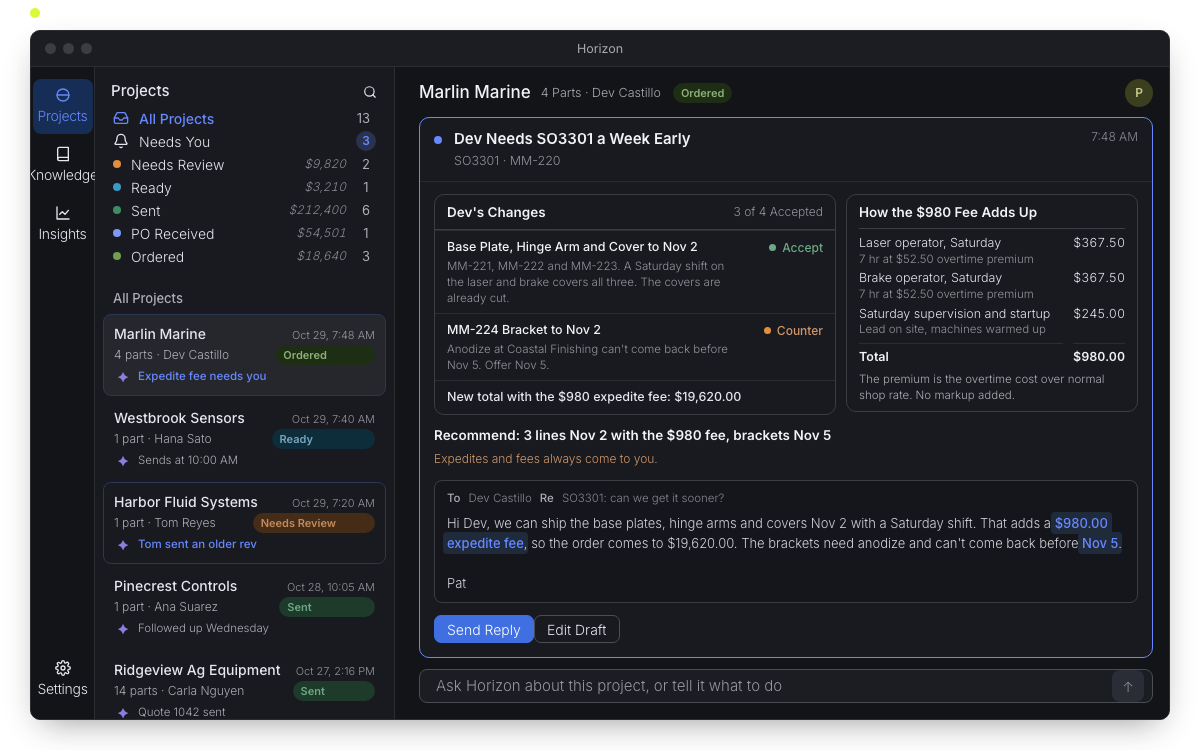
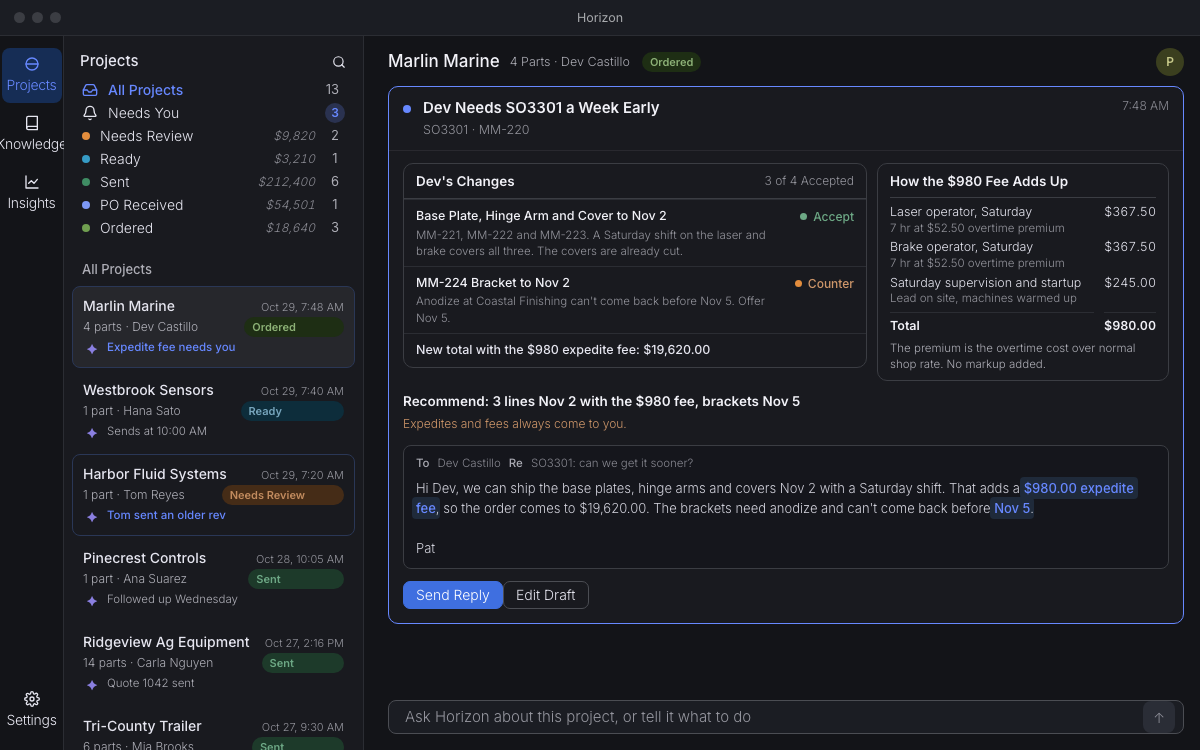
horizon: loops fill the frame edge to edge, neon dot removed, posters re-rendered
Brand pass against the approved Builder page: product frames are the
window itself (12px radius + float shadow on the embed), no inset canvas,
no marketing accent inside the frame.

Changed region(s): [[0.0, 0.0, 1.0, 1.0], [0.2158, 0.1227, 0.3083, 0.368], [0.6475, 0.4293, 0.6783, 0.46]]

diff --git a/horizon/hero-email-lands/index.html b/horizon/hero-email-lands/index.html
@@ -60,11 +60,10 @@
   transform: scale(var(--s)); transform-origin: 0 0; background: #fff; overflow: hidden; }
 
 /* the one marketing accent on the canvas */
-.hz-hero-email-lands .h-neon { position: absolute; left: 12px; top: 10px; width: 10px; height: 10px; border-radius: 50%; background: #DDF83B; }
 
 /* ---------- the Horizon window (OS title bar + the app) ---------- */
-.hz-hero-email-lands .h-win { position: absolute; left: 30px; top: 30px; width: 1140px; height: 690px; background: #131418;
-  border: 1px solid #2b2d33; border-radius: 10px; box-shadow: 0 12px 32px -12px rgba(15,17,21,.45); overflow: hidden;
+.hz-hero-email-lands .h-win { position: absolute; left: 0; top: 0; width: 1200px; height: 750px; background: #131418;
+     overflow: hidden;
   display: flex; flex-direction: column; z-index: 2; transform-origin: 50% 60%;
   transition: opacity .6s cubic-bezier(.2,.7,.2,1), transform .7s cubic-bezier(.2,.7,.2,1); }
 .hz-hero-email-lands .h-win.is-back { opacity: 0; transform: translateY(22px) scale(.965); z-index: 1; }
@@ -75,8 +74,8 @@
 .hz-hero-email-lands .h-appwrap { flex: 1 1 auto; min-height: 0; }
 
 /* ---------- the other client: Outlook, where the RFQ lands first (light Microsoft look, intentional) ---------- */
-.hz-hero-email-lands .o-win { position: absolute; left: 30px; top: 30px; width: 1140px; height: 690px; background: #fff;
-  border: 1px solid #d6d6d6; border-radius: 10px; box-shadow: 0 12px 32px -12px rgba(15,17,21,.45); overflow: hidden;
+.hz-hero-email-lands .o-win { position: absolute; left: 0; top: 0; width: 1200px; height: 750px; background: #fff;
+  border: 1px solid #d6d6d6;   overflow: hidden;
   display: flex; flex-direction: column; z-index: 3; opacity: 0; transform: translateY(16px) scale(.97); transform-origin: 50% 50%;
   font-family: 'Segoe UI', 'Inter', -apple-system, BlinkMacSystemFont, sans-serif; color: #242424;
   transition: opacity .6s cubic-bezier(.2,.7,.2,1), transform .75s cubic-bezier(.2,.7,.2,1); }
@@ -365,7 +364,6 @@
 
 <div class="hz-hero-email-lands">
   <div class="hz-hero-email-lands-stage">
-    <div class="h-neon"></div>
 
     <!-- ===== Outlook (the email arrives here first) ===== -->
     <div class="o-win" data-owin>

diff --git a/horizon/hero-email-lands/fragment.html b/horizon/hero-email-lands/fragment.html
@@ -9,11 +9,10 @@
   transform: scale(var(--s)); transform-origin: 0 0; background: #fff; overflow: hidden; }
 
 /* the one marketing accent on the canvas */
-.hz-hero-email-lands .h-neon { position: absolute; left: 12px; top: 10px; width: 10px; height: 10px; border-radius: 50%; background: #DDF83B; }
 
 /* ---------- the Horizon window (OS title bar + the app) ---------- */
-.hz-hero-email-lands .h-win { position: absolute; left: 30px; top: 30px; width: 1140px; height: 690px; background: #131418;
-  border: 1px solid #2b2d33; border-radius: 10px; box-shadow: 0 12px 32px -12px rgba(15,17,21,.45); overflow: hidden;
+.hz-hero-email-lands .h-win { position: absolute; left: 0; top: 0; width: 1200px; height: 750px; background: #131418;
+     overflow: hidden;
   display: flex; flex-direction: column; z-index: 2; transform-origin: 50% 60%;
   transition: opacity .6s cubic-bezier(.2,.7,.2,1), transform .7s cubic-bezier(.2,.7,.2,1); }
 .hz-hero-email-lands .h-win.is-back { opacity: 0; transform: translateY(22px) scale(.965); z-index: 1; }
@@ -24,8 +23,8 @@
 .hz-hero-email-lands .h-appwrap { flex: 1 1 auto; min-height: 0; }
 
 /* ---------- the other client: Outlook, where the RFQ lands first (light Microsoft look, intentional) ---------- */
-.hz-hero-email-lands .o-win { position: absolute; left: 30px; top: 30px; width: 1140px; height: 690px; background: #fff;
-  border: 1px solid #d6d6d6; border-radius: 10px; box-shadow: 0 12px 32px -12px rgba(15,17,21,.45); overflow: hidden;
+.hz-hero-email-lands .o-win { position: absolute; left: 0; top: 0; width: 1200px; height: 750px; background: #fff;
+  border: 1px solid #d6d6d6;   overflow: hidden;
   display: flex; flex-direction: column; z-index: 3; opacity: 0; transform: translateY(16px) scale(.97); transform-origin: 50% 50%;
   font-family: 'Segoe UI', 'Inter', -apple-system, BlinkMacSystemFont, sans-serif; color: #242424;
   transition: opacity .6s cubic-bezier(.2,.7,.2,1), transform .75s cubic-bezier(.2,.7,.2,1); }
@@ -314,7 +313,6 @@
 
 <div class="hz-hero-email-lands">
   <div class="hz-hero-email-lands-stage">
-    <div class="h-neon"></div>
 
     <!-- ===== Outlook (the email arrives here first) ===== -->
     <div class="o-win" data-owin>

diff --git a/horizon/expedite-math/index.html b/horizon/expedite-math/index.html
@@ -50,11 +50,10 @@
 @import url('https://fonts.googleapis.com/css2?family=Inter:wght@300;400;500;600;700&display=swap');
 .hz-expedite-math{position:relative;width:100%;max-width:1200px;margin:0 auto;overflow:hidden;aspect-ratio:1200/750;font-family:Inter,-apple-system,BlinkMacSystemFont,'Segoe UI',sans-serif;color:#292932;line-height:1.4;-webkit-font-smoothing:antialiased;-moz-osx-font-smoothing:grayscale;background:#fff}
 .hz-expedite-math *,.hz-expedite-math *::before,.hz-expedite-math *::after{box-sizing:border-box}
-.hz-expedite-math-stage{position:absolute;top:0;left:0;width:1200px;height:750px;transform-origin:0 0;transform:scale(var(--s,1));background:#fff;overflow:hidden}
+.hz-expedite-math-stage{position:absolute;top:0;left:0;width:1200px;height:750px;transform-origin:0 0;transform:scale(var(--s,1));background: #131418;overflow:hidden}
 /* canvas: the one marketing accent */
-.hz-expedite-math .em-neon{position:absolute;left:30px;top:8px;width:10px;height:10px;border-radius:50%;background:#DDF83B}
 /* the Horizon window: OS title bar + the kit's app shell */
-.hz-expedite-math .em-win{position:absolute;left:30px;top:30px;width:1140px;height:690px;border:1px solid #2b2d33;border-radius:10px;box-shadow:0 12px 32px -12px rgba(15,17,21,.45);overflow:hidden;display:flex;flex-direction:column;background:#131418}
+.hz-expedite-math .em-win{position:absolute;left: 0;top: 0;width: 1200px;height: 750px;overflow:hidden;display:flex;flex-direction:column;background:#131418}
 .hz-expedite-math .em-os{flex:0 0 36px;position:relative;display:flex;align-items:center;justify-content:center;background:#1b1d23;border-bottom:1px solid #2b2d33;font-size:12.5px;color:#a9abae;font-family:Inter,system-ui,sans-serif}
 .hz-expedite-math .em-os i{position:absolute;left:14px;top:12px;width:11px;height:11px;border-radius:50%;background:#3b3d43}
 .hz-expedite-math .em-os i:nth-child(2){left:32px}
@@ -255,7 +254,6 @@
 </style>
 <div class="hz-expedite-math">
   <div class="hz-expedite-math-stage">
-    <span class="em-neon"></span>
     <div class="em-win">
       <div class="em-os"><i></i><i></i><i></i>Horizon</div>
       <div class="em-app">

diff --git a/horizon/expedite-math/fragment.html b/horizon/expedite-math/fragment.html
@@ -2,11 +2,10 @@
 @import url('https://fonts.googleapis.com/css2?family=Inter:wght@300;400;500;600;700&display=swap');
 .hz-expedite-math{position:relative;width:100%;max-width:1200px;margin:0 auto;overflow:hidden;aspect-ratio:1200/750;font-family:Inter,-apple-system,BlinkMacSystemFont,'Segoe UI',sans-serif;color:#292932;line-height:1.4;-webkit-font-smoothing:antialiased;-moz-osx-font-smoothing:grayscale;background:#fff}
 .hz-expedite-math *,.hz-expedite-math *::before,.hz-expedite-math *::after{box-sizing:border-box}
-.hz-expedite-math-stage{position:absolute;top:0;left:0;width:1200px;height:750px;transform-origin:0 0;transform:scale(var(--s,1));background:#fff;overflow:hidden}
+.hz-expedite-math-stage{position:absolute;top:0;left:0;width:1200px;height:750px;transform-origin:0 0;transform:scale(var(--s,1));background: #131418;overflow:hidden}
 /* canvas: the one marketing accent */
-.hz-expedite-math .em-neon{position:absolute;left:30px;top:8px;width:10px;height:10px;border-radius:50%;background:#DDF83B}
 /* the Horizon window: OS title bar + the kit's app shell */
-.hz-expedite-math .em-win{position:absolute;left:30px;top:30px;width:1140px;height:690px;border:1px solid #2b2d33;border-radius:10px;box-shadow:0 12px 32px -12px rgba(15,17,21,.45);overflow:hidden;display:flex;flex-direction:column;background:#131418}
+.hz-expedite-math .em-win{position:absolute;left: 0;top: 0;width: 1200px;height: 750px;overflow:hidden;display:flex;flex-direction:column;background:#131418}
 .hz-expedite-math .em-os{flex:0 0 36px;position:relative;display:flex;align-items:center;justify-content:center;background:#1b1d23;border-bottom:1px solid #2b2d33;font-size:12.5px;color:#a9abae;font-family:Inter,system-ui,sans-serif}
 .hz-expedite-math .em-os i{position:absolute;left:14px;top:12px;width:11px;height:11px;border-radius:50%;background:#3b3d43}
 .hz-expedite-math .em-os i:nth-child(2){left:32px}
@@ -207,7 +206,6 @@
 </style>
 <div class="hz-expedite-math">
   <div class="hz-expedite-math-stage">
-    <span class="em-neon"></span>
     <div class="em-win">
       <div class="em-os"><i></i><i></i><i></i>Horizon</div>
       <div class="em-app">

diff --git a/horizon/same-reply-two-voices/index.html b/horizon/same-reply-two-voices/index.html
@@ -46,10 +46,9 @@
 /* ---------- root + stage (1200x750, scaled to the root width) ---------- */
 .hz-same-reply-two-voices{position:relative;width:100%;max-width:1200px;margin:0 auto;overflow:hidden;aspect-ratio:1200/750;font-family:Inter,-apple-system,BlinkMacSystemFont,'Segoe UI',sans-serif;color:#292932;line-height:1.4;-webkit-font-smoothing:antialiased;-moz-osx-font-smoothing:grayscale;background:#fff}
 .hz-same-reply-two-voices *,.hz-same-reply-two-voices *::before,.hz-same-reply-two-voices *::after{box-sizing:border-box}
-.hz-same-reply-two-voices-stage{position:absolute;top:0;left:0;width:1200px;height:750px;transform-origin:0 0;transform:scale(var(--s,1));background:#fff;overflow:hidden}
+.hz-same-reply-two-voices-stage{position:absolute;top:0;left:0;width:1200px;height:750px;transform-origin:0 0;transform:scale(var(--s,1));background: #131418;overflow:hidden}
 /* canvas: one lime accent, the window, one caption */
-.hz-same-reply-two-voices .sr-neon{position:absolute;left:12px;top:12px;width:10px;height:10px;border-radius:50%;background:#DDF83B}
-.hz-same-reply-two-voices .sr-win{position:absolute;left:30px;top:30px;width:1140px;height:690px;border-radius:10px;border:1px solid #2b2d33;box-shadow:0 12px 32px -12px rgba(15,17,21,.45);overflow:hidden;display:flex;flex-direction:column;background:#131418}
+.hz-same-reply-two-voices .sr-win{position:absolute;left: 0;top: 0;width: 1200px;height: 750px;overflow:hidden;display:flex;flex-direction:column;background:#131418}
 .hz-same-reply-two-voices .sr-bar{position:relative;flex:0 0 36px;background:#1b1d23;display:flex;align-items:center;padding:0 14px}
 .hz-same-reply-two-voices .sr-dots{display:inline-flex;gap:7px}
 .hz-same-reply-two-voices .sr-dots i{width:11px;height:11px;border-radius:50%;background:#3b3d43;display:block}
@@ -144,7 +143,6 @@
 </style>
 <div class="hz-same-reply-two-voices">
   <div class="hz-same-reply-two-voices-stage">
-    <span class="sr-neon"></span>
     <div class="sr-win">
       <div class="sr-bar"><span class="sr-dots"><i></i><i></i><i></i></span><span class="sr-title">Horizon</span></div>
       <div class="hzk-app">

diff --git a/horizon/same-reply-two-voices/fragment.html b/horizon/same-reply-two-voices/fragment.html
@@ -3,10 +3,9 @@
 /* ---------- root + stage (1200x750, scaled to the root width) ---------- */
 .hz-same-reply-two-voices{position:relative;width:100%;max-width:1200px;margin:0 auto;overflow:hidden;aspect-ratio:1200/750;font-family:Inter,-apple-system,BlinkMacSystemFont,'Segoe UI',sans-serif;color:#292932;line-height:1.4;-webkit-font-smoothing:antialiased;-moz-osx-font-smoothing:grayscale;background:#fff}
 .hz-same-reply-two-voices *,.hz-same-reply-two-voices *::before,.hz-same-reply-two-voices *::after{box-sizing:border-box}
-.hz-same-reply-two-voices-stage{position:absolute;top:0;left:0;width:1200px;height:750px;transform-origin:0 0;transform:scale(var(--s,1));background:#fff;overflow:hidden}
+.hz-same-reply-two-voices-stage{position:absolute;top:0;left:0;width:1200px;height:750px;transform-origin:0 0;transform:scale(var(--s,1));background: #131418;overflow:hidden}
 /* canvas: one lime accent, the window, one caption */
-.hz-same-reply-two-voices .sr-neon{position:absolute;left:12px;top:12px;width:10px;height:10px;border-radius:50%;background:#DDF83B}
-.hz-same-reply-two-voices .sr-win{position:absolute;left:30px;top:30px;width:1140px;height:690px;border-radius:10px;border:1px solid #2b2d33;box-shadow:0 12px 32px -12px rgba(15,17,21,.45);overflow:hidden;display:flex;flex-direction:column;background:#131418}
+.hz-same-reply-two-voices .sr-win{position:absolute;left: 0;top: 0;width: 1200px;height: 750px;overflow:hidden;display:flex;flex-direction:column;background:#131418}
 .hz-same-reply-two-voices .sr-bar{position:relative;flex:0 0 36px;background:#1b1d23;display:flex;align-items:center;padding:0 14px}
 .hz-same-reply-two-voices .sr-dots{display:inline-flex;gap:7px}
 .hz-same-reply-two-voices .sr-dots i{width:11px;height:11px;border-radius:50%;background:#3b3d43;display:block}
@@ -101,7 +100,6 @@
 </style>
 <div class="hz-same-reply-two-voices">
   <div class="hz-same-reply-two-voices-stage">
-    <span class="sr-neon"></span>
     <div class="sr-win">
       <div class="sr-bar"><span class="sr-dots"><i></i><i></i><i></i></span><span class="sr-title">Horizon</span></div>
       <div class="hzk-app">

diff --git a/horizon/conversation-ribbon/index.html b/horizon/conversation-ribbon/index.html
@@ -59,11 +59,10 @@
   font-family: Inter, system-ui, -apple-system, "Segoe UI", sans-serif; color: #292932; -webkit-font-smoothing: antialiased; -moz-osx-font-smoothing: grayscale;
   pointer-events: none; user-select: none; }
 .hz-conversation-ribbon *, .hz-conversation-ribbon *::before, .hz-conversation-ribbon *::after { box-sizing: border-box; }
-.hz-conversation-ribbon-stage { position: absolute; left: 0; top: 0; width: 1200px; height: 750px; overflow: hidden; background: #fff;
+.hz-conversation-ribbon-stage { position: absolute; left: 0; top: 0; width: 1200px; height: 750px; overflow: hidden; background: #131418;
   transform-origin: 0 0; transform: scale(var(--s)); }
-.hz-conversation-ribbon .cr-neon { position: absolute; left: 30px; top: 10px; width: 10px; height: 10px; border-radius: 50%; background: #DDF83B; }
-.hz-conversation-ribbon .cr-win { position: absolute; left: 30px; top: 30px; width: 1140px; height: 690px; border-radius: 10px; border: 1px solid #2b2d33;
-  box-shadow: 0 12px 32px -12px rgba(15,17,21,.45); background: #131418; overflow: hidden; display: flex; flex-direction: column; }
+.hz-conversation-ribbon .cr-win { position: absolute; left: 0; top: 0; width: 1200px; height: 750px;  
+   background: #131418; overflow: hidden; display: flex; flex-direction: column; }
 .hz-conversation-ribbon .cr-os { flex: none; height: 36px; background: #1b1d23; display: flex; align-items: center; justify-content: center; position: relative;
   font-size: 12.5px; color: #a9abae; font-weight: 400; }
 .hz-conversation-ribbon .cr-os i { position: absolute; left: 14px; top: 12.5px; width: 11px; height: 11px; border-radius: 50%; background: #4b4d53; }
@@ -237,7 +236,6 @@
 
 <div class="hz-conversation-ribbon">
   <div class="hz-conversation-ribbon-stage">
-    <span class="cr-neon"></span>
     <div class="cr-win">
       <div class="cr-os"><i></i><i></i><i></i>Horizon</div>
       <div class="hzk-app">

diff --git a/horizon/conversation-ribbon/fragment.html b/horizon/conversation-ribbon/fragment.html
@@ -5,11 +5,10 @@
   font-family: Inter, system-ui, -apple-system, "Segoe UI", sans-serif; color: #292932; -webkit-font-smoothing: antialiased; -moz-osx-font-smoothing: grayscale;
   pointer-events: none; user-select: none; }
 .hz-conversation-ribbon *, .hz-conversation-ribbon *::before, .hz-conversation-ribbon *::after { box-sizing: border-box; }
-.hz-conversation-ribbon-stage { position: absolute; left: 0; top: 0; width: 1200px; height: 750px; overflow: hidden; background: #fff;
+.hz-conversation-ribbon-stage { position: absolute; left: 0; top: 0; width: 1200px; height: 750px; overflow: hidden; background: #131418;
   transform-origin: 0 0; transform: scale(var(--s)); }
-.hz-conversation-ribbon .cr-neon { position: absolute; left: 30px; top: 10px; width: 10px; height: 10px; border-radius: 50%; background: #DDF83B; }
-.hz-conversation-ribbon .cr-win { position: absolute; left: 30px; top: 30px; width: 1140px; height: 690px; border-radius: 10px; border: 1px solid #2b2d33;
-  box-shadow: 0 12px 32px -12px rgba(15,17,21,.45); background: #131418; overflow: hidden; display: flex; flex-direction: column; }
+.hz-conversation-ribbon .cr-win { position: absolute; left: 0; top: 0; width: 1200px; height: 750px;  
+   background: #131418; overflow: hidden; display: flex; flex-direction: column; }
 .hz-conversation-ribbon .cr-os { flex: none; height: 36px; background: #1b1d23; display: flex; align-items: center; justify-content: center; position: relative;
   font-size: 12.5px; color: #a9abae; font-weight: 400; }
 .hz-conversation-ribbon .cr-os i { position: absolute; left: 14px; top: 12.5px; width: 11px; height: 11px; border-radius: 50%; background: #4b4d53; }
@@ -183,7 +182,6 @@
 
 <div class="hz-conversation-ribbon">
   <div class="hz-conversation-ribbon-stage">
-    <span class="cr-neon"></span>
     <div class="cr-win">
       <div class="cr-os"><i></i><i></i><i></i>Horizon</div>
       <div class="hzk-app">

diff --git a/horizon/split-handled-decisions/index.html b/horizon/split-handled-decisions/index.html
@@ -49,14 +49,13 @@
   pointer-events: none; user-select: none; }
 .hz-split-handled-decisions *, .hz-split-handled-decisions *::before, .hz-split-handled-decisions *::after { box-sizing: border-box; }
 .hz-split-handled-decisions-stage { position: absolute; top: 0; left: 0; width: 1200px; height: 750px;
-  transform: scale(var(--s)); transform-origin: 0 0; background: #fff; overflow: hidden; }
+  transform: scale(var(--s)); transform-origin: 0 0; background: #131418; overflow: hidden; }
 
 /* the one marketing accent, on the canvas */
-.hz-split-handled-decisions .s-neon { position: absolute; left: 150px; top: 8px; width: 10px; height: 10px; border-radius: 50%; background: #DDF83B; }
 
 /* the Horizon window: plain OS title bar + the app */
-.hz-split-handled-decisions .s-win { position: absolute; left: 30px; top: 30px; width: 1140px; height: 690px; background: #131418;
-  border: 1px solid #2b2d33; border-radius: 10px; box-shadow: 0 12px 32px -12px rgba(15,17,21,.45); overflow: hidden; display: flex; flex-direction: column; }
+.hz-split-handled-decisions .s-win { position: absolute; left: 0; top: 0; width: 1200px; height: 750px; background: #131418;
+     overflow: hidden; display: flex; flex-direction: column; }
 .hz-split-handled-decisions .s-bar { flex: 0 0 36px; position: relative; display: flex; align-items: center; justify-content: center; background: #1b1d23; border-bottom: 1px solid #2b2d33;
   font-size: 12.5px; color: #a9abae; font-weight: 400; }
 .hz-split-handled-decisions .s-bar .dots { position: absolute; left: 14px; top: 12px; display: flex; gap: 7px; }
@@ -197,7 +196,6 @@
 
 <div class="hz-split-handled-decisions">
   <div class="hz-split-handled-decisions-stage">
-    <div class="s-neon"></div>
     <div class="s-win">
       <div class="s-bar"><span class="dots"><i></i><i></i><i></i></span>Horizon</div>
       <div class="s-app">

diff --git a/horizon/split-handled-decisions/fragment.html b/horizon/split-handled-decisions/fragment.html
@@ -6,14 +6,13 @@
   pointer-events: none; user-select: none; }
 .hz-split-handled-decisions *, .hz-split-handled-decisions *::before, .hz-split-handled-decisions *::after { box-sizing: border-box; }
 .hz-split-handled-decisions-stage { position: absolute; top: 0; left: 0; width: 1200px; height: 750px;
-  transform: scale(var(--s)); transform-origin: 0 0; background: #fff; overflow: hidden; }
+  transform: scale(var(--s)); transform-origin: 0 0; background: #131418; overflow: hidden; }
 
 /* the one marketing accent, on the canvas */
-.hz-split-handled-decisions .s-neon { position: absolute; left: 150px; top: 8px; width: 10px; height: 10px; border-radius: 50%; background: #DDF83B; }
 
 /* the Horizon window: plain OS title bar + the app */
-.hz-split-handled-decisions .s-win { position: absolute; left: 30px; top: 30px; width: 1140px; height: 690px; background: #131418;
-  border: 1px solid #2b2d33; border-radius: 10px; box-shadow: 0 12px 32px -12px rgba(15,17,21,.45); overflow: hidden; display: flex; flex-direction: column; }
+.hz-split-handled-decisions .s-win { position: absolute; left: 0; top: 0; width: 1200px; height: 750px; background: #131418;
+     overflow: hidden; display: flex; flex-direction: column; }
 .hz-split-handled-decisions .s-bar { flex: 0 0 36px; position: relative; display: flex; align-items: center; justify-content: center; background: #1b1d23; border-bottom: 1px solid #2b2d33;
   font-size: 12.5px; color: #a9abae; font-weight: 400; }
 .hz-split-handled-decisions .s-bar .dots { position: absolute; left: 14px; top: 12px; display: flex; gap: 7px; }
@@ -154,7 +153,6 @@
 
 <div class="hz-split-handled-decisions">
   <div class="hz-split-handled-decisions-stage">
-    <div class="s-neon"></div>
     <div class="s-win">
       <div class="s-bar"><span class="dots"><i></i><i></i><i></i></span>Horizon</div>
       <div class="s-app">
